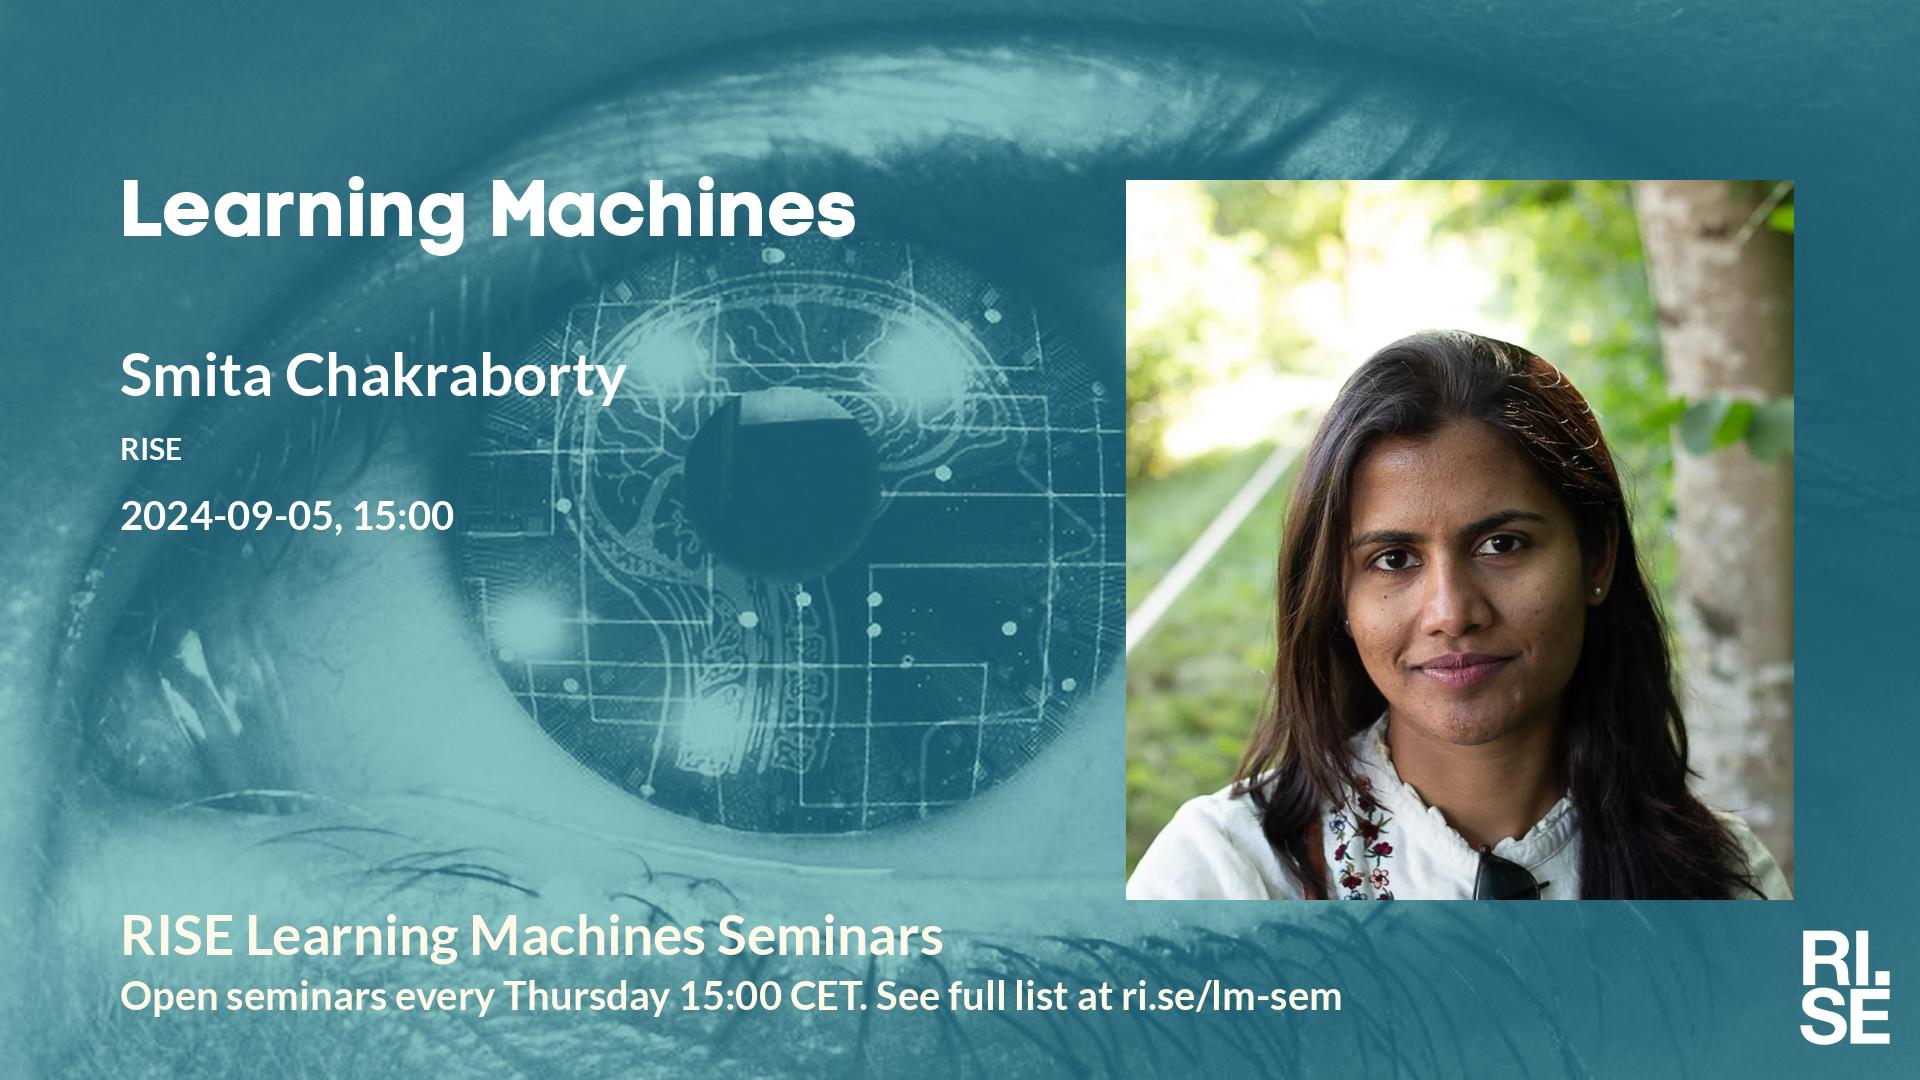
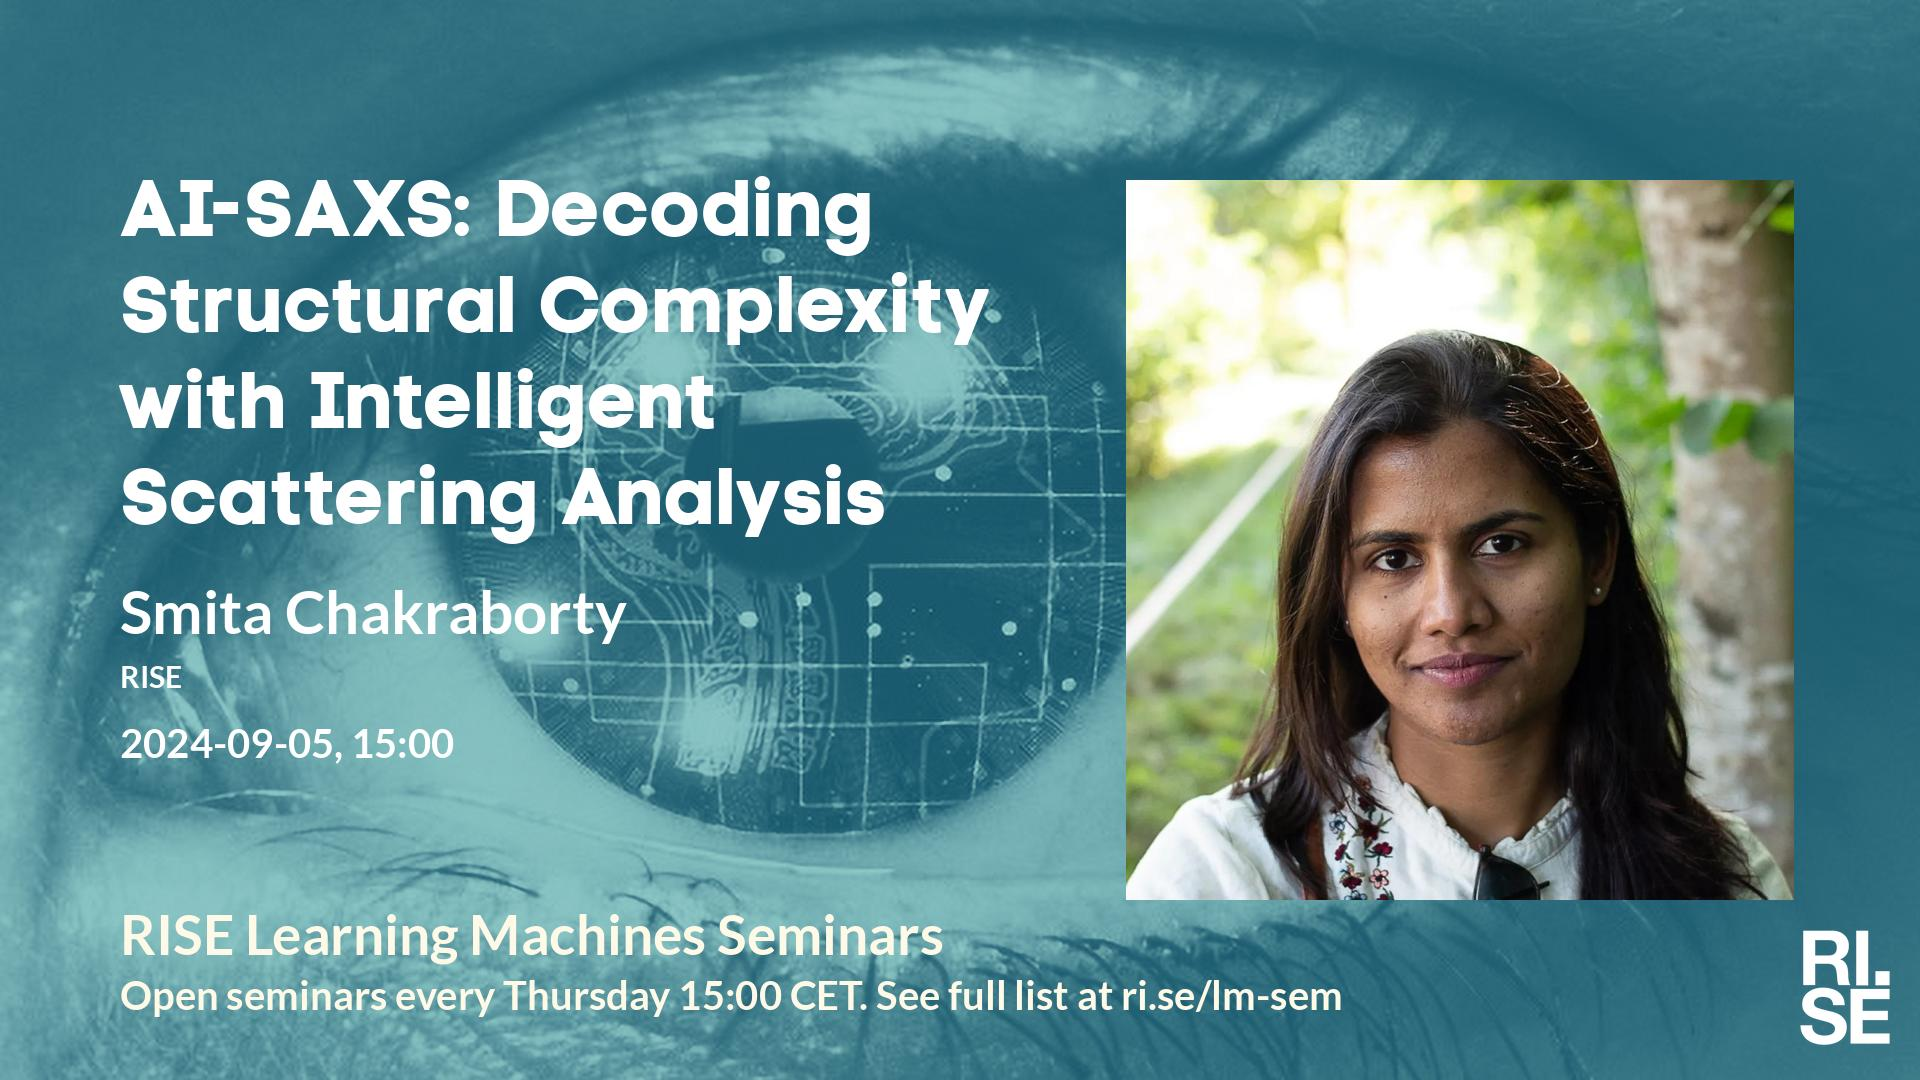
Updated plan on web site.

Changed region(s): [[0.0625, 0.1528, 0.5312, 0.5194], [0.0625, 0.55, 0.3438, 0.6417], [0.0625, 0.6722, 0.25, 0.7028]]

diff --git a/lm/index.md b/lm/index.md
@@ -5,13 +5,11 @@ metatags: "<meta name=\"robots\" content=\"noindex,nofollow\" />"
 <style type="text/css" scoped>
 td, th {border: 1px solid #ccc; padding: 0.6em;}
 table {border-collapse: collapse;}
-</style># Learning Machines Plan 2024-06-14
+</style># Learning Machines Plan 2024-08-05
 
 | date | speaker                                   | photo | shareable | meeting backdrop | youtube thumbnail | <a title="Speaker, Title, Abstract, Bio, Photo. Strikethrough means we don't have it yet.">comment</a>        |
 | ---- | ----------------------------------------- | ----- | ----- | ----- | ----- | -------------- |
-|  2024-05-30  |  [Jonas Hentati Sundberg, Swedish University of Agricultural Sciences](2024-05-30.md)  |  [photo](photo-jonas-hentati-sundberg.jpg)  |  [social media ](social-media-jonas-hentati-sundberg.jpg)  |  [meeting backdrop ](meeting-backdrop-jonas-hentati-sundberg.jpg)  |  [youtube thumbnail ](youtube-thumbnail-jonas-hentati-sundberg.jpg)  |  STABP  |
-| <span style="color:red"> 2024-06-06 </span> | <span style="color:red"> National_day </span> | <span style="color:red">  </span> | <span style="color:red">  </span> | <span style="color:red">  </span> | <span style="color:red">  </span> | <span style="color:red"> CANCELLED </span> |
-|  2024-09-05  |  [Smita Chakraborty, RISE](2024-09-05.md)  |  [photo](photo-smita-chakraborty.jpg)  |  [social media ](social-media-smita-chakraborty.jpg)  |  [meeting backdrop ](meeting-backdrop-smita-chakraborty.jpg)  |  [youtube thumbnail ](youtube-thumbnail-smita-chakraborty.jpg)  |  S~~TAB~~P  |
+|  2024-09-05  |  [Smita Chakraborty, RISE](2024-09-05.md)  |  [photo](photo-smita-chakraborty.jpg)  |  [social media ](social-media-smita-chakraborty.jpg)  |  [meeting backdrop ](meeting-backdrop-smita-chakraborty.jpg)  |  [youtube thumbnail ](youtube-thumbnail-smita-chakraborty.jpg)  |  STABP  |
 |  2024-09-12  |  [Vésteinn Snæbjarnarson, Pioneer Centre for Artificial Intelligence](2024-09-12.md)  |  [photo](photo-vesteinn-snaebjarnarson.jpg)  |  [social media ](social-media-vesteinn-snaebjarnarson.jpg)  |  [meeting backdrop ](meeting-backdrop-vesteinn-snaebjarnarson.jpg)  |  [youtube thumbnail ](youtube-thumbnail-vesteinn-snaebjarnarson.jpg)  |  S~~TAB~~P  |
 |  2024-09-19  |  [Mélisande Teng, MILA and Universite de Montreal](2024-09-19.md)  |    |  [social media ](social-media-melisande-teng.jpg)  |  [meeting backdrop ](meeting-backdrop-melisande-teng.jpg)  |  [youtube thumbnail ](youtube-thumbnail-melisande-teng.jpg)  |  S~~TABP~~  |
 |  2024-09-26  |  [Charlie Fieseler, University of Vienna](2024-09-26.md)  |    |  [social media ](social-media-charlie-fieseler.jpg)  |  [meeting backdrop ](meeting-backdrop-charlie-fieseler.jpg)  |  [youtube thumbnail ](youtube-thumbnail-charlie-fieseler.jpg)  |  S~~TABP~~  |

diff --git a/lm/2024-09-05.md b/lm/2024-09-05.md
@@ -4,13 +4,13 @@ metatags: "<meta name=\"robots\" content=\"noindex,nofollow\" />"
 ---
 Welcome to this week's Learning Machines seminar.
 
-**Title:** N/A
+**Title:** AI-SAXS: Decoding Structural Complexity with Intelligent Scattering Analysis
 
 **Speaker:** Smita Chakraborty, RISE
 
-**Abstract:** N/A
+**Abstract:** The AI-SAXS project explores the possibilities of using machine learning to interpret the information in the small angle X-ray scattering curves together with project partners AstraZeneca and TetraPak. The model developed within the project will be trained on synthetic data and real experimental data from the Max IV synchrotron laboratory in Lund, Sweden. By training the model on thousands of SAXS spectra of representative models, it learns to interpret real samples that are of interest for the experiments in the project. One of the goals is to make the models and working methods as generalizable as possible given the diversity of the project focus samples which are primarily cellulose for TetraPak and lipid nanoparticles in the case of AstraZeneca. Both the work process and type of neural networks are evaluated in the project to find the best methods for these different materials.
 
-**About the speaker:** N/A
+**About the speaker:** Smita Chakraborty is a researcher at the Computer Science Department at RISE. She earned her Ph.D. in Theoretical Particle Physics from Lund University in 2022, where her doctoral thesis focused on extending the Lund String Model for heavy ion collisions at particle colliders such as CERN. Her current research interests are physics-informed machine learning, ML for earth observation, and quantum computation.
 
 **Location:** This is an online seminar. Connect using Zoom.
 
@@ -23,6 +23,7 @@ Welcome to this week's Learning Machines seminar.
 * 2024-09-12: Vésteinn Snæbjarnarson, Pioneer Centre for Artificial Intelligence
 * 2024-09-19: Mélisande Teng, MILA and Universite de Montreal
 * 2024-09-26: Charlie Fieseler, University of Vienna
+* 2024-11-07: Joel Oskarsson, Linköping University
 * All seminars are 15:00 CET.
 
 More information and coming seminars: [https://ri.se/lm-sem](https://ri.se/lm-sem)
